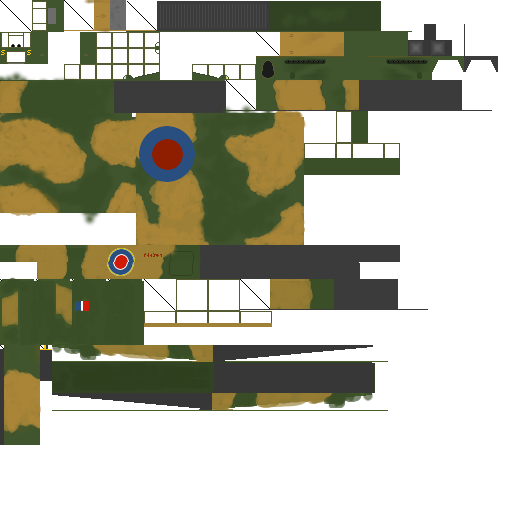
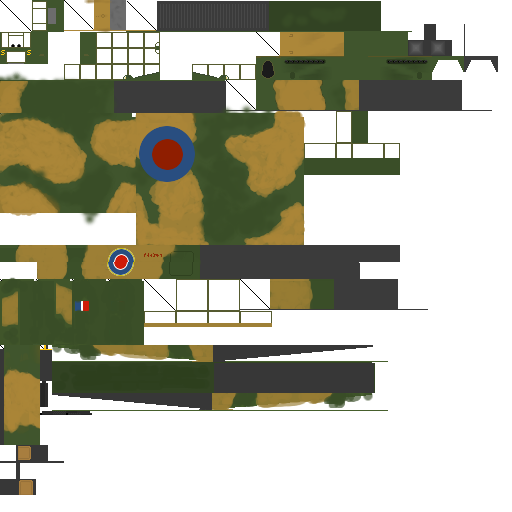
Lancaster dorsal turret

Changed region(s): [[0.0, 0.8438, 0.125, 0.9688], [0.0625, 0.75, 0.1875, 0.8125]]

diff --git a/src/minecraft/co/uk/flansmods/client/model/ModelPlane.java b/src/minecraft/co/uk/flansmods/client/model/ModelPlane.java
@@ -49,9 +49,9 @@ public class ModelPlane extends ModelDriveable
 	public ModelRendererTurbo leftWingPos2Model[] = new ModelRendererTurbo[0];
 	
 	@Override
-	public void render(EntityDriveable driveable)
+	public void render(EntityDriveable driveable, float f1)
 	{
-		render(0.0625F, (EntityPlane)driveable);
+		render(0.0625F, (EntityPlane)driveable, f1);
 	}
 	
 	@Override
@@ -85,7 +85,7 @@ public class ModelPlane extends ModelDriveable
 		renderPart(leftWingPos1Model);
 	}
 	
-    public void render(float f5, EntityPlane plane)
+    public void render(float f5, EntityPlane plane, float f)
     {
 		//Rotating the propeller
 		float angle = plane.propAngle;
@@ -273,29 +273,32 @@ public class ModelPlane extends ModelDriveable
         	//If the seat has a gun model attached
         	if(seat != null && seat.seatInfo != null && seat.seatInfo.gunName != null && gunModels.get(seat.seatInfo.gunName) != null && plane.isPartIntact(seat.seatInfo.part))
         	{
+        		float yaw = seat.prevLooking.getYaw() + (seat.looking.getYaw() - seat.prevLooking.getYaw()) * f;
+        		float pitch = seat.prevLooking.getPitch() + (seat.looking.getPitch() - seat.prevLooking.getPitch()) * f;
+        		
         		//Iterate over the parts of that model
         		ModelRendererTurbo[][] gunModel = gunModels.get(seat.seatInfo.gunName);
         		//Yaw only parts
     			for(ModelRendererTurbo gunModelPart : gunModel[0])
     			{
     				//Yaw and render
-        			gunModelPart.rotateAngleY = (180F - seat.looking.getYaw()) * 3.14159265F / 180F;
+        			gunModelPart.rotateAngleY = (180F - yaw) * 3.14159265F / 180F;
         			gunModelPart.render(f5);
     			}
         		//Yaw and pitch, no recoil parts
     			for(ModelRendererTurbo gunModelPart : gunModel[1])
     			{
     				//Yaw, pitch and render
-        			gunModelPart.rotateAngleY = (180F - seat.looking.getYaw()) * 3.14159265F / 180F;
-        			gunModelPart.rotateAngleZ = -seat.looking.getPitch() * 3.14159265F / 180F;
+        			gunModelPart.rotateAngleY = (180F - yaw) * 3.14159265F / 180F;
+        			gunModelPart.rotateAngleZ = -pitch * 3.14159265F / 180F;
         			gunModelPart.render(f5);
     			}
         		//Yaw, pitch and recoil parts
     			for(ModelRendererTurbo gunModelPart : gunModel[2])
     			{
     				//Yaw, pitch, recoil and render
-        			gunModelPart.rotateAngleY = (180F - seat.looking.getYaw()) * 3.14159265F / 180F;
-        			gunModelPart.rotateAngleZ = -seat.looking.getPitch() * 3.14159265F / 180F;
+        			gunModelPart.rotateAngleY = (180F - yaw) * 3.14159265F / 180F;
+        			gunModelPart.rotateAngleZ = -pitch * 3.14159265F / 180F;
         			gunModelPart.render(f5);
     			}
         	}

diff --git a/src/minecraft/co/uk/flansmods/client/model/ww2/ModelLancaster.java b/src/minecraft/co/uk/flansmods/client/model/ww2/ModelLancaster.java
@@ -96,13 +96,36 @@ public class ModelLancaster extends ModelPlane
 		bodyModel[17].addTrapezoid(32, -112, -16, 32, 16, 32, 0.0F, -8.0F, ModelRendererTurbo.MR_TOP); //Gunner Window Inside
 		
 		ModelRendererTurbo[][] dorsalModel = new ModelRendererTurbo[3][];
-		//No yaw only part
-		dorsalModel[0] = new ModelRendererTurbo[0];
-		//A single no recoil part
-		dorsalModel[1] = new ModelRendererTurbo[1];
-		dorsalModel[1][0] = new ModelRendererTurbo(this, 174, 123, textureX, textureY);
-		dorsalModel[1][0].addBox(8, -1, -1, 24, 2, 2, 0F); 
-		dorsalModel[1][0].setRotationPoint(48, -104, 0);
+		//A swivel chair for the dorsal gunner
+		dorsalModel[0] = new ModelRendererTurbo[6];
+		dorsalModel[0][0] = new ModelRendererTurbo(this, 0, 445, textureX, textureY);
+		dorsalModel[0][0].addBox(-8, 16, -8, 16, 2, 16, 0F); 
+		dorsalModel[0][0].setRotationPoint(48, -104, 0);		
+		dorsalModel[0][1] = new ModelRendererTurbo(this, 0, 463, textureX, textureY);
+		dorsalModel[0][1].addBox(-8, 0, -8, 2, 16, 16, 0F); 
+		dorsalModel[0][1].setRotationPoint(48, -104, 0);
+		dorsalModel[0][2] = new ModelRendererTurbo(this, 40, 381, textureX, textureY);
+		dorsalModel[0][2].addBox(8, -6, -3, 2, 24, 2, 0F); 
+		dorsalModel[0][2].setRotationPoint(48, -104, 0);
+		dorsalModel[0][3] = new ModelRendererTurbo(this, 40, 381, textureX, textureY);
+		dorsalModel[0][3].addBox(8, -6, 1, 2, 24, 2, 0F); 
+		dorsalModel[0][3].setRotationPoint(48, -104, 0);
+		dorsalModel[0][4] = new ModelRendererTurbo(this, 40, 381, textureX, textureY);
+		dorsalModel[0][4].addBox(8, -4, -7, 2, 22, 2, 0F); 
+		dorsalModel[0][4].setRotationPoint(48, -104, 0);
+		dorsalModel[0][5] = new ModelRendererTurbo(this, 40, 381, textureX, textureY);
+		dorsalModel[0][5].addBox(8, -4, 5, 2, 22, 2, 0F); 
+		dorsalModel[0][5].setRotationPoint(48, -104, 0);
+
+		//A single barrel with no recoil effects
+		dorsalModel[1] = new ModelRendererTurbo[2];
+		dorsalModel[1][0] = new ModelRendererTurbo(this, 40, 411, textureX, textureY);
+		dorsalModel[1][0].addBox(8, -1, 3, 24, 2, 2, 0F); 
+		dorsalModel[1][0].setRotationPoint(48, -100, 0);
+		dorsalModel[1][1] = new ModelRendererTurbo(this, 40, 411, textureX, textureY);
+		dorsalModel[1][1].addBox(8, -1, -5, 24, 2, 2, 0F); 
+		dorsalModel[1][1].setRotationPoint(48, -100, 0);
+		
 		//No recoil part just yet
 		dorsalModel[2] = new ModelRendererTurbo[0];
 		

diff --git a/src/minecraft/co/uk/flansmods/common/driveables/EntitySeat.java b/src/minecraft/co/uk/flansmods/common/driveables/EntitySeat.java
@@ -54,6 +54,8 @@ public class EntitySeat extends Entity implements IControllable, IEntityAddition
 	
 	/** A set of axes used to calculate where the player is looking, x axis is the direction of looking, y is up */
 	public RotatedAxes looking;
+	/** For smooth renderering */
+	public RotatedAxes prevLooking;
 	/** Delay ticker for shooting guns */
 	public int gunDelay;
 	/** Sound delay ticker for looping sounds */
@@ -68,7 +70,7 @@ public class EntitySeat extends Entity implements IControllable, IEntityAddition
 	{
 		super(world);
 		setSize(1F, 1F);
-		looking = new RotatedAxes();
+		prevLooking = looking = new RotatedAxes();
 	}
 		
 	/** Server side seat constructor */
@@ -95,6 +97,8 @@ public class EntitySeat extends Entity implements IControllable, IEntityAddition
 		prevPosX = posX;
 		prevPosY = posY;
 		prevPosZ = posZ;
+		
+		
 
 		//If on the client and the driveable parent has yet to be found, search for it
 		if(worldObj.isRemote && !foundDriveable)
@@ -193,6 +197,8 @@ public class EntitySeat extends Entity implements IControllable, IEntityAddition
 	{
 		if(!foundDriveable)
 			return;
+		
+		prevLooking = looking.clone();
 				
 		//Driver seat should pass input to driveable
 		if(driver)

diff --git a/src/minecraft/co/uk/flansmods/client/model/ModelDriveable.java b/src/minecraft/co/uk/flansmods/client/model/ModelDriveable.java
@@ -8,7 +8,7 @@ import net.minecraft.client.model.ModelBase;
 public class ModelDriveable extends ModelBase 
 {
 	/** For rendering a specific entity */
-	public void render(EntityDriveable driveable)
+	public void render(EntityDriveable driveable, float f1)
 	{
 	}
 	   

diff --git a/src/minecraft/co/uk/flansmods/client/RenderPlane.java b/src/minecraft/co/uk/flansmods/client/RenderPlane.java
@@ -51,7 +51,7 @@ public class RenderPlane extends Render
         ModelDriveable modPlane = type.model;
 		if(modPlane != null)
 		{
-			modPlane.render(entityPlane);
+			modPlane.render(entityPlane, f1);
 		}
 		if(FlansMod.DEBUG)
 		{
